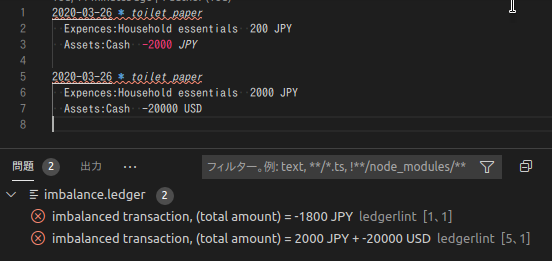
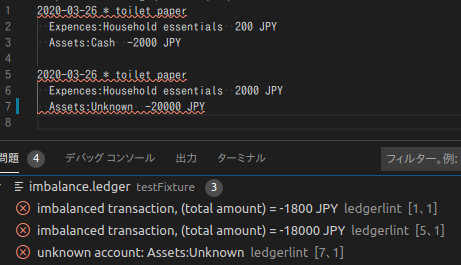
Implement unknown account error (#7)
* Bump ledgerlint to v0.0.2

* Add a fixture

* Implement unknown account checking

* Fix docUri

* Update configuration

* Add afterEach and fix section name

* Use suiteTeardown instead of afterEach

* Use teardown instead of suiteTeardown

* Revert teardown

* activate before config.update

* ???

* Move getConfiguration

* ???

* comment otu config.update

* ???

* ???

* ???

* ???

* Specify scope

* ???

https://qiita.com/bucchi49/items/a3454f396f804f353ce2

* ???

* ???

https://github.com/Microsoft/vscode-extension-samples/blob/master/configuration-sample/src/extension.ts

* Do not specify section

* ???

* ???

* ???

* ???

* ???

* Remove debug line

* ???

* workspace -> global

* 諦めた

* Update screenshot

diff --git a/server/src/server.ts b/server/src/server.ts
@@ -86,12 +86,16 @@ connection.onInitialized(() => {
 // The example settings
 interface ExampleSettings {
 	maxNumberOfProblems: number;
+	accountsPath: string;
 }
 
 // The global settings, used when the `workspace/configuration` request is not supported by the client.
 // Please note that this is not the case when using this server with the client provided in this example
 // but could happen with other clients.
-const defaultSettings: ExampleSettings = { maxNumberOfProblems: 1000 };
+const defaultSettings: ExampleSettings = {
+	maxNumberOfProblems: 1000,
+	accountsPath: '',
+};
 let globalSettings: ExampleSettings = defaultSettings;
 
 // Cache the settings of all open documents
@@ -103,7 +107,7 @@ connection.onDidChangeConfiguration(change => {
 		documentSettings.clear();
 	} else {
 		globalSettings = <ExampleSettings>(
-			(change.settings.languageServerExample || defaultSettings)
+			(change.settings.ledgerlint || defaultSettings)
 		);
 	}
 
@@ -119,7 +123,7 @@ function getDocumentSettings(resource: string): Thenable<ExampleSettings> {
 	if (!result) {
 		result = connection.workspace.getConfiguration({
 			scopeUri: resource,
-			section: 'languageServerExample'
+			section: 'ledgerlint'
 		});
 		documentSettings.set(resource, result);
 	}
@@ -138,13 +142,16 @@ documents.onDidChangeContent(change => {
 });
 
 async function validateTextDocument(textDocument: TextDocument): Promise<void> {
+	const settings = await getDocumentSettings(textDocument.uri);
+	const accountPath = settings.accountsPath;
+
 	const path = textDocument.uri.match(/file:\/\/(.+)/)?.[1];
 	if (path === undefined) {
 		return;
 	}
 
 	let diagnostics: Diagnostic[] = [];
-	(await runLedgerLint(path)).forEach (lintError => {
+	(await runLedgerLint(path, accountPath)).forEach (lintError => {
 		const lineNumber = lintError.lineNumber;
 		const range = Range.create(lineNumber, 0, lineNumber, 80);
 		const diagnostic: Diagnostic = {

diff --git a/client/src/test/diagnostics.test.ts b/client/src/test/diagnostics.test.ts
@@ -3,9 +3,9 @@ import * as assert from 'assert';
 import { getDocUri, activate } from './helper';
 
 suite('diagnostics tests', () => {
-	const docUri = getDocUri('imbalance.ledger');
-
-	test('2 errors at imbalance.ledger', async () => {
+	test('imbalance.ledger', async () => {
+		const docUri = getDocUri('imbalance.ledger');
+		await activate(docUri);
 		await testDiagnostics(docUri, [
 			{
 				message: 'imbalanced transaction, (total amount) = -1800 JPY',
@@ -21,6 +21,23 @@ suite('diagnostics tests', () => {
 			},
 		]);
 	});
+
+	test.skip('unknown-account.ledger', async () => {
+		const docUri = getDocUri('unknown-account.ledger');
+		await activate(docUri);
+
+		const configuration = await vscode.workspace.getConfiguration();
+		await configuration.update('ledgerlint.accountsPath', 'testFixture/accounts.txt', vscode.ConfigurationTarget.Global);
+
+		await testDiagnostics(docUri, [
+			{
+				message: 'unknown account: Assets:Unknown',
+				range: toRange(3, 0, 3, 80),
+				severity: vscode.DiagnosticSeverity.Error,
+				source: 'ledgerlint',
+			},
+		]);
+	});
 });
 
 function toRange(sLine: number, sChar: number, eLine: number, eChar: number) {
@@ -30,8 +47,6 @@ function toRange(sLine: number, sChar: number, eLine: number, eChar: number) {
 }
 
 async function testDiagnostics(docUri: vscode.Uri, expectedDiagnostics: vscode.Diagnostic[]) {
-	await activate(docUri);
-
 	const actualDiagnostics = vscode.languages.getDiagnostics(docUri);
 
 	assert.equal(actualDiagnostics.length, expectedDiagnostics.length, `Unexpected number of diagnostics`);

diff --git a/server/src/ledgerlint.ts b/server/src/ledgerlint.ts
@@ -15,8 +15,12 @@ export class LedgerLintError {
 	}
 }
 
-export async function runLedgerLint(absPath: string): Promise<LedgerLintError[]> {
-	const command = `ledgerlint -f $(realpath --relative-to=. ${absPath})`;
+export async function runLedgerLint(absPath: string, accountPath: string): Promise<LedgerLintError[]> {
+	let command = `ledgerlint -f $(realpath --relative-to=. ${absPath})`;
+	if (accountPath !== '') {
+		command += ` -account ${accountPath}`;
+	}
+
 	const stdout = await execPromise(command);
 	const lines = String(stdout).split('\n');
 	const errors: LedgerLintError[] = [];
